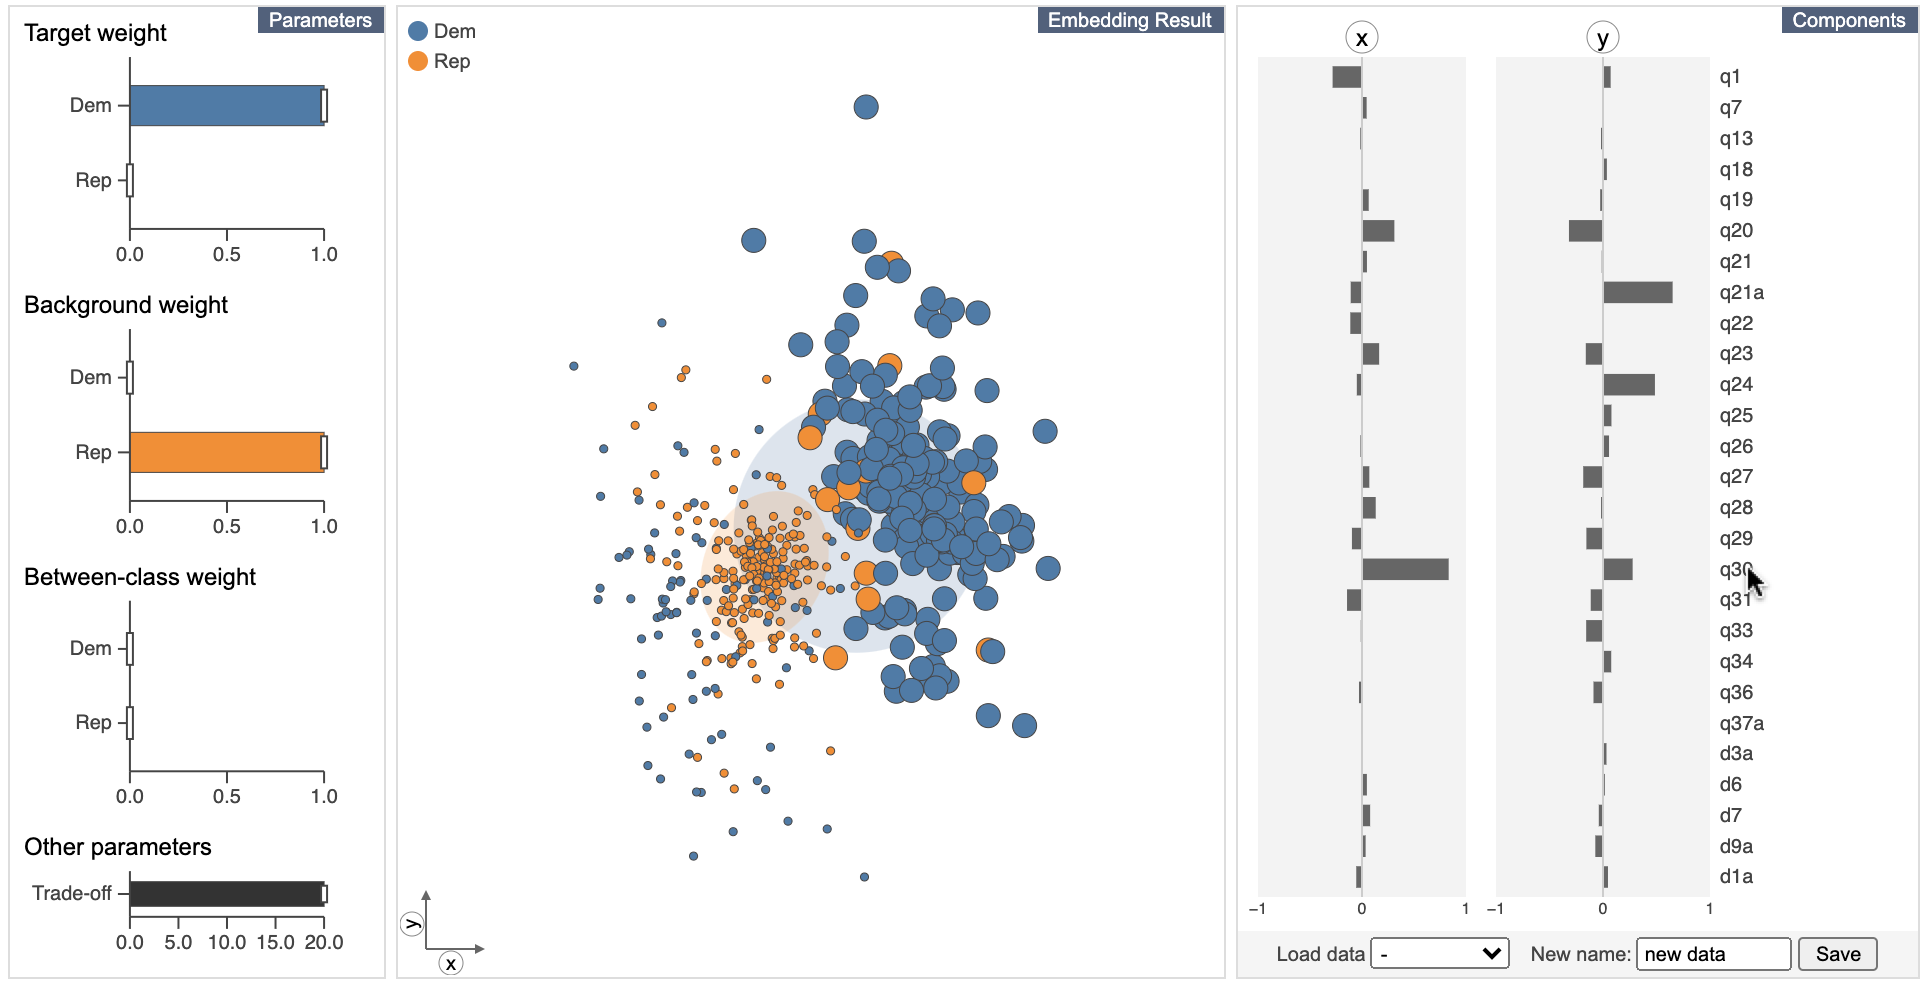
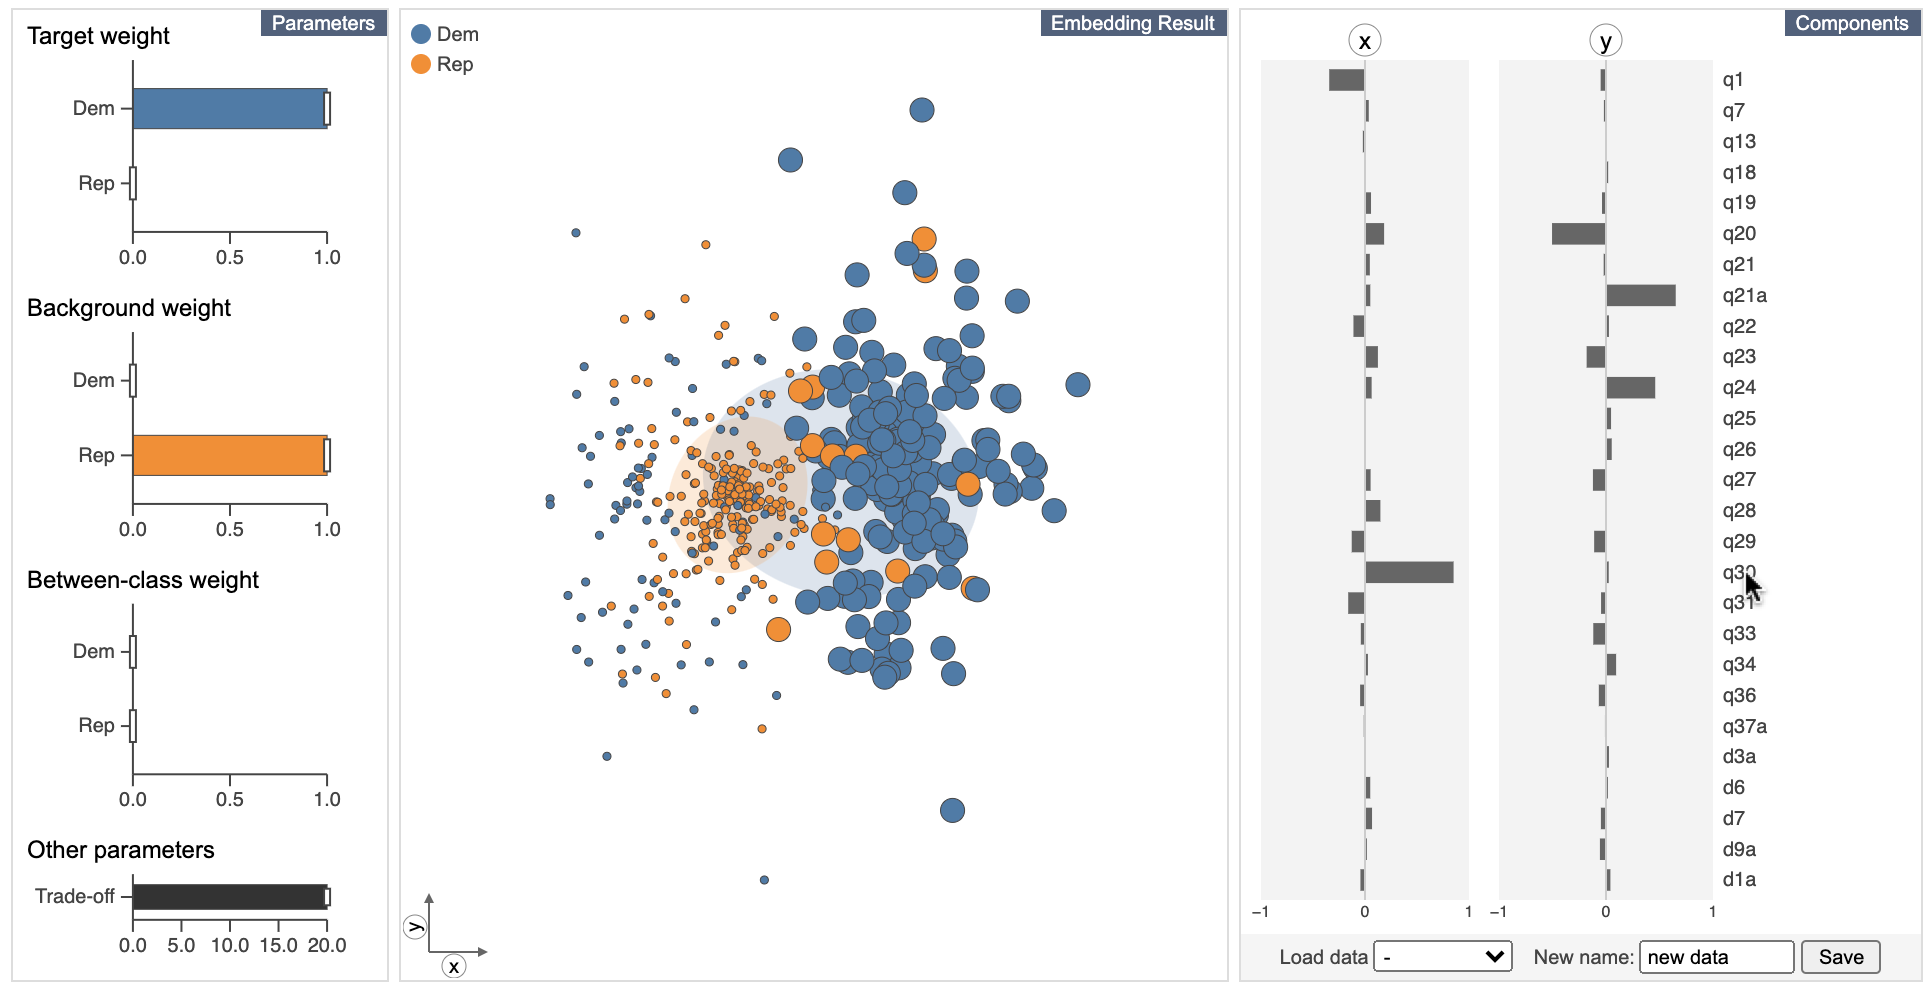
fixed the cov comp and related results

diff --git a/dr_comp/experiment_settings.py b/dr_comp/experiment_settings.py
@@ -19,7 +19,7 @@ ppic = np.load('ppic.npy', allow_pickle=True).flatten()[0]
 ppic2 = np.load('ppic2.npy', allow_pickle=True).flatten()[0]
 mnist = np.load('mnist.npy', allow_pickle=True).flatten()[0]
 
-fig2 = {
+fig1 = {
     'data':
     wine,
     'colors':
@@ -42,7 +42,7 @@ fig2 = {
             'alpha': 0
         }
     }, {
-        'title': 'ULCA (Fig. 2)',
+        'title': 'ULCA (Fig. 1)',
         'dr': ulca,
         'groups': [[0], [1], [2]],
         'params': {
@@ -66,7 +66,7 @@ fig2 = {
     }]
 }
 
-fig3 = {
+fig2 = {
     'data':
     wine,
     'colors':
@@ -89,7 +89,7 @@ fig3 = {
             'alpha': None
         }
     }, {
-        'title': 'ULCA (Fig. 3)',
+        'title': 'ULCA (Fig. 2)',
         'dr': ulca,
         'groups': [[0], [1], [2]],
         'params': {
@@ -113,7 +113,7 @@ fig3 = {
     }]
 }
 
-fig4 = {
+fig3 = {
     'data':
     wine,
     'colors':
@@ -136,7 +136,7 @@ fig4 = {
             'alpha': None
         }
     }, {
-        'title': 'ULCA (Fig. 4)',
+        'title': 'ULCA (Fig. 3)',
         'dr': ulca,
         'groups': [[0], [1], [2]],
         'params': {
@@ -160,7 +160,7 @@ fig4 = {
     }]
 }
 
-fig10a = {
+fig9a = {
     'data':
     ppic,
     'colors':
@@ -183,7 +183,7 @@ fig10a = {
             'alpha': None
         }
     }, {
-        'title': 'ULCA (Fig. 10a)',
+        'title': 'ULCA (Fig. 9a)',
         'dr': ulca,
         'groups': [[0], [1]],
         'params': {
@@ -204,7 +204,7 @@ fig10a = {
     }]
 }
 
-fig10b = {
+fig9b = {
     'data':
     ppic2,
     'colors':
@@ -227,7 +227,7 @@ fig10b = {
             'alpha': None
         }
     }, {
-        'title': 'ULCA (Fig. 10b)',
+        'title': 'ULCA (Fig. 9b)',
         'dr': ulca,
         'groups': [[0], [1], [2]],
         'params': {
@@ -251,7 +251,7 @@ fig10b = {
     }]
 }
 
-fig10c = {
+fig9c = {
     'data':
     ppic2,
     'colors':
@@ -274,31 +274,31 @@ fig10c = {
             'alpha': None
         }
     }, {
-        'title': 'ULCA (Fig. 10c)',
+        'title': 'ULCA (Fig. 9c)',
         'dr': ulca,
         'groups': [[0], [1], [2]],
         'params': {
             'w_tg': {
-                0: 0.1036320301254145,
-                1: 0.08285710596411336,
+                0: 0.038365900514515154,
+                1: 0.03189631955255691,
                 2: 0.6337167203034522
             },
             'w_bg': {
-                0: 0.9156204118817143,
-                1: 0.905759808967022,
+                0: 0.3389743652498261,
+                1: 0.34867744858465005,
                 2: 0.058115068138408006
             },
             'w_bw': {
-                0: 0.6587344065214706,
-                1: 0.06323367081423459,
+                0: 0.24387188666965084,
+                1: 0.024342165313444287,
                 2: 0.9843778233029735
             },
-            'alpha': 0.8938344688343313
+            'alpha': 3.2938344688343313
         }
     }]
 }
 
-fig11a = {
+fig10a = {
     'data':
     mnist,
     'colors':
@@ -324,7 +324,7 @@ fig11a = {
             'alpha': None
         }
     }, {
-        'title': 'ULCA (Fig. 11a)',
+        'title': 'ULCA (Fig. 10a)',
         'dr': ulca,
         'groups': [[0], [6], [9]],
         'params': {
@@ -348,7 +348,7 @@ fig11a = {
     }]
 }
 
-fig11b = {
+fig10b = {
     'data':
     mnist,
     'colors':
@@ -374,7 +374,7 @@ fig11b = {
             'alpha': None
         }
     }, {
-        'title': 'ULCA (Fig. 11b)',
+        'title': 'ULCA (Fig. 10b)',
         'dr': ulca,
         'groups': [[0], [6], [9]],
         'params': {
@@ -398,7 +398,7 @@ fig11b = {
     }]
 }
 
-fig11c = {
+fig10c = {
     'data':
     mnist,
     'colors':
@@ -424,7 +424,7 @@ fig11c = {
             'alpha': None
         }
     }, {
-        'title': 'ULCA (Fig. 11c)',
+        'title': 'ULCA (Fig. 10c)',
         'dr': ulca,
         'groups': [[0], [6], [9]],
         'params': {

diff --git a/manopt_dr/predefined_func_generator.py b/manopt_dr/predefined_func_generator.py
@@ -46,8 +46,8 @@ def gen_cost_lda(X, y):
 def gen_cost_cpca(X_tg, X_bg, alpha=None):
     X_tg_c = X_tg - X_tg.mean(axis=0)
     X_bg_c = X_bg - X_bg.mean(axis=0)
-    Cov_tg = X_tg_c.T @ X_tg_c
-    Cov_bg = X_bg_c.T @ X_bg_c
+    Cov_tg = X_tg_c.T @ X_tg_c / X_tg_c.shape[0]
+    Cov_bg = X_bg_c.T @ X_bg_c / X_bg_c.shape[0]
 
     @pymanopt.function.Autograd
     def cost(M):
@@ -68,8 +68,8 @@ def gen_cost_ccpca(X_tg, X_bg, alpha=None):
     X_c = X - X.mean(axis=0)
     X_bg_c = X_bg - X_bg.mean(axis=0)
 
-    Cov_all = X_c.T @ X_c
-    Cov_bg = X_bg_c.T @ X_bg_c
+    Cov_all = X_c.T @ X_c / X_c.shape[0]
+    Cov_bg = X_bg_c.T @ X_bg_c / X_bg_c.shape[0]
 
     @pymanopt.function.Autograd
     def cost(M):
@@ -93,8 +93,8 @@ def gen_cost_ulca(X,
                   Covs={},
                   alpha=None,
                   centering=True,
-                  gamma0=0,
-                  gamma1=0):
+                  gamma0=None,
+                  gamma1=None):
     labels = np.unique(y)
     _Covs = {}
 
@@ -118,8 +118,10 @@ def gen_cost_ulca(X,
             WI = X_c[y == label, :] - X_class_mean[y == label, :]
             # to compute between-cov
             BW = X_class_mean[y == label, :] - all_mean
-            Cov_within = WI.T @ WI
-            Cov_between = BW.T @ BW
+            n = np.sum(y == label)
+
+            Cov_within = WI.T @ WI / n
+            Cov_between = BW.T @ BW / n
             _Covs[label] = {'within': Cov_within, 'between': Cov_between}
     else:
         _Covs = Covs
@@ -140,10 +142,16 @@ def gen_cost_ulca(X,
         w_bg_total += w_bg[label]
         w_bw_total += w_bw[label]
 
-    if w_tg_total + w_bw_total == 0 and gamma0 == 0:
-        gamma0 = 1
-    if w_bg_total == 0 and gamma1 == 0:
-        gamma1 = 1
+    if gamma0 is None:
+        if w_tg_total + w_bw_total == 0:
+            gamma0 = 1
+        else:
+            gamma0 = 0
+    if gamma1 is None:
+        if w_bg_total == 0 and gamma1:
+            gamma1 = 1
+        else:
+            gamma1 = 0
 
     C0 = Cov_within_tg + Cov_between + gamma0 * np.identity(d)
     C1 = Cov_within_bg + gamma1 * np.identity(d)

diff --git a/dr_comp/dr_comp.py b/dr_comp/dr_comp.py
@@ -7,11 +7,10 @@ import numpy as np
 import pandas as pd
 import matplotlib.pyplot as plt
 
-from experiment_settings import fig2, fig3, fig4, fig10a, fig10b, fig10c, fig11a, fig11b, fig11c
+from experiment_settings import fig1, fig2, fig3, fig9a, fig9b, fig9c, fig10a, fig10b, fig10c
 
 all_results = []
-# for fig in [fig2, fig3, fig4, fig10a, fig10b, fig10c, fig11a, fig11b, fig11c]:
-for fig in [fig10c]:
+for fig in [fig1, fig2, fig3, fig9a, fig9b, fig9c, fig10a, fig10b, fig10c]:
     results = []
 
     X = fig['data']['X']
